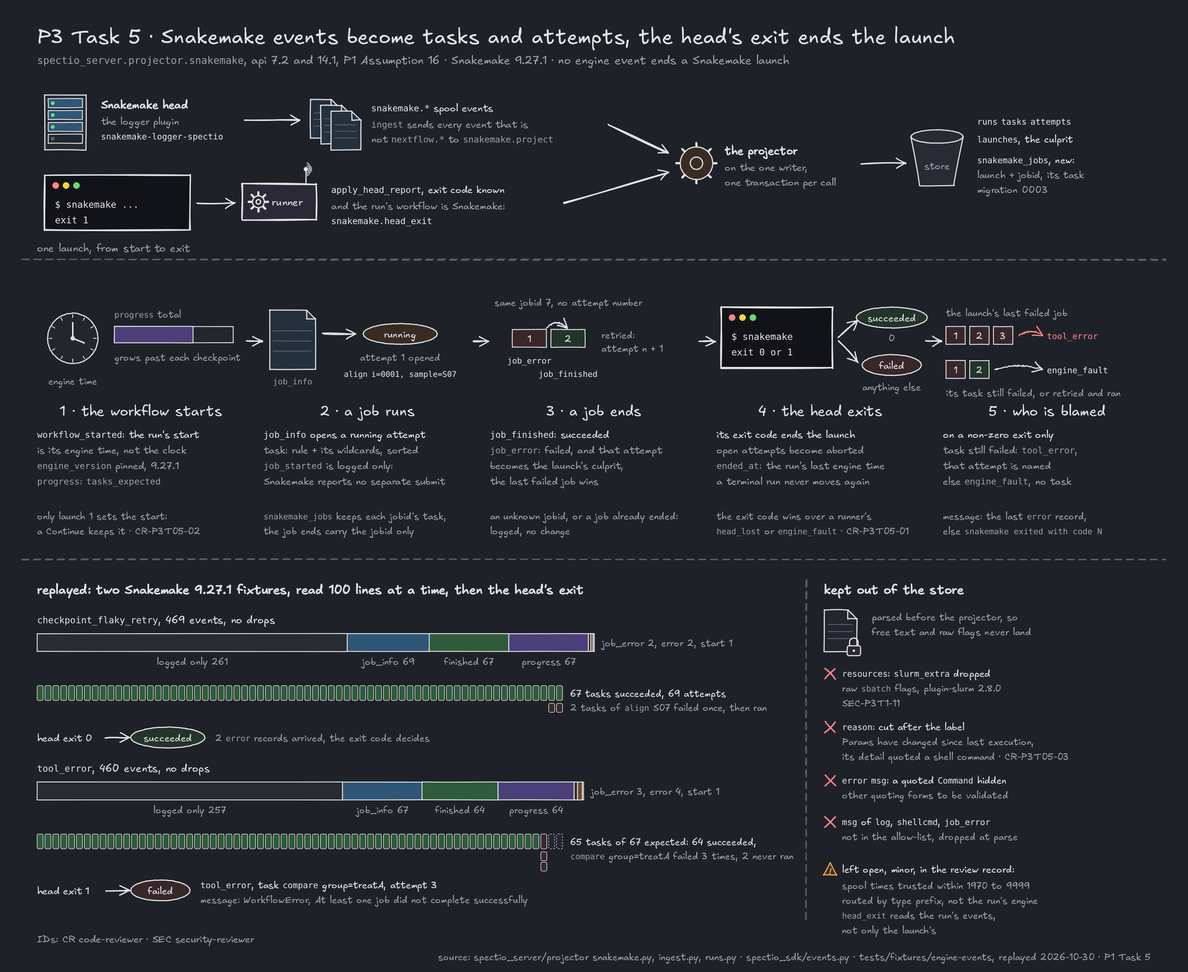
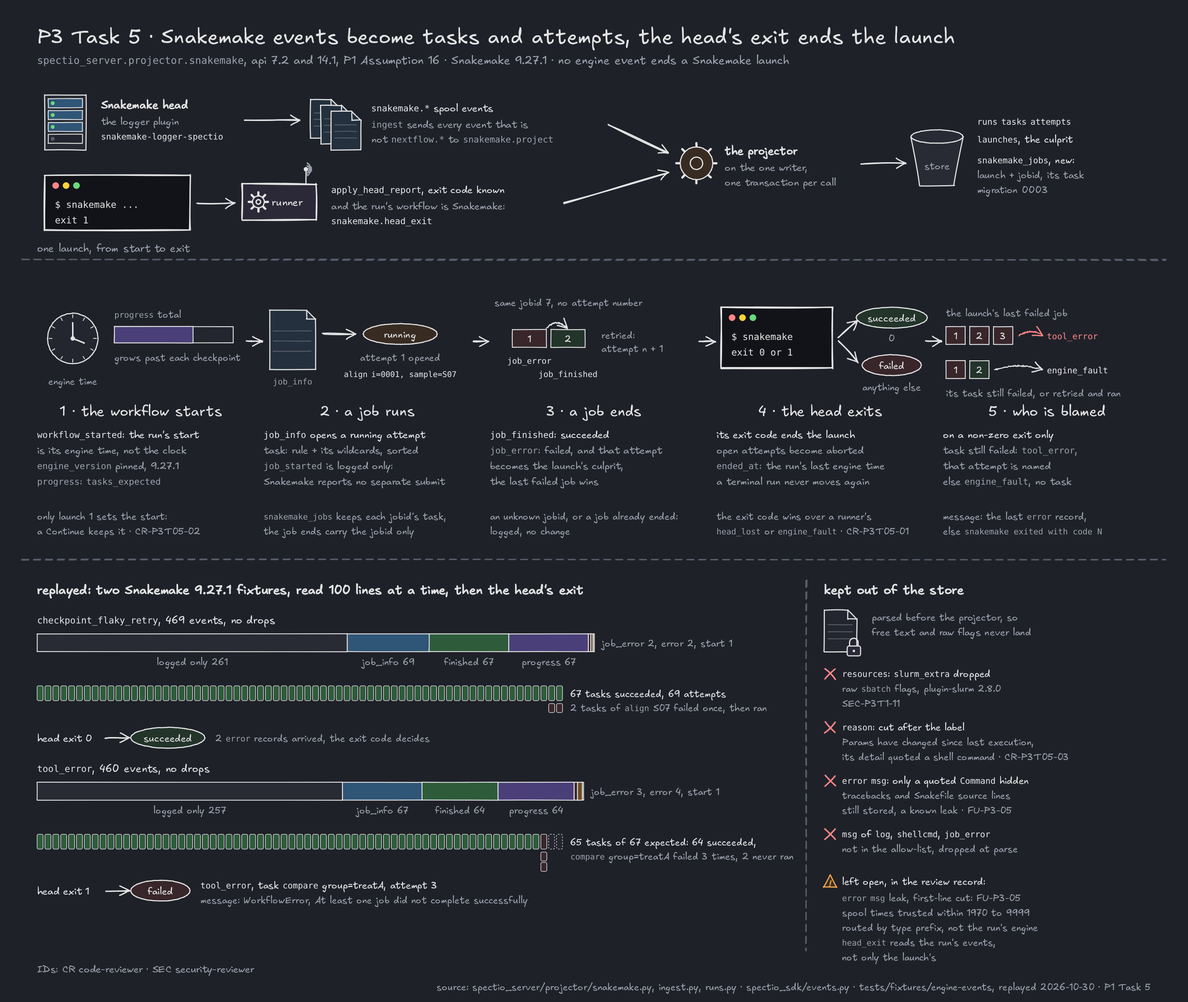
docs(P3-t05): rule 3 is option (a); error msg leak FU-P3-05 in the figure; cite pinned plugins
- P3-M1 and the review record: CR-P3T05-02 (r1) follows inbox #81
  rule 3, option (a); the gap stays open (option (c) was not chosen).
- Figure: the snakemake.error msg item now states the known leak
  (tracebacks and Snakefile source lines are stored, FU-P3-05), FU-P3-05
  joins the left-open list, the footer path is fixed; PNG/SVG pairs
  regenerated and the alt text updated.
- api 14.1: slurm-jobstep 0.6.1 and kubernetes 0.5.1 resource reads
  cited by file:line at their tags, read 2026-10-30.

Claude-Session: https://claude.ai/code/session_01MF8RxQVAqsifw4qf3jWPxK

diff --git a/tools/diagrams/p3_t05_snakemake.py b/tools/diagrams/p3_t05_snakemake.py
@@ -45,8 +45,10 @@ Every fact comes from branch autopilot/P3-t05 at 0f9fcf9 (BASE 85bc086):
   class tool_error, attempt_n 3, message "WorkflowError: At least one job did not complete
   successfully."
 - Fixed during review and named in the figure: CR-P3T05-01, -02, -03 (majors) and SEC-P3T1-11,
-  from docs/reviews/code/P3-t05.md. The minors left open are listed without IDs, since the IDs
-  are reused across rounds in the review rounds.
+  from docs/reviews/code/P3-t05.md. The items left open are listed without finding IDs, since
+  the IDs are reused across rounds in the review rounds; the snakemake.error msg leak (tracebacks
+  and Snakefile source lines reach runs.failure.message, api 14.1) is named by its follow-up,
+  FU-P3-05.
 """
 
 from __future__ import annotations
@@ -55,7 +57,7 @@ import math
 
 from sketch import Sketch, Theme, main_for
 
-W, H = 1600, 1310
+W, H = 1600, 1350
 COL = (50, 355, 660, 965, 1270)  # five columns, 280 wide, 25 apart
 CW = 280
 ROW = 410  # the pictograms of the steps
@@ -324,7 +326,8 @@ def build(theme: Theme) -> Sketch:
          "SEC-P3T1-11"),
         ("`reason`: cut after the label", "Params have changed since last execution,",
          "its detail quoted a shell command · CR-P3T05-03"),
-        ("`error` `msg`: a quoted `Command` hidden", "other quoting forms to be validated", ""),
+        ("`error` `msg`: only a quoted `Command` hidden", "tracebacks and Snakefile source lines",
+         "still stored, a known leak · FU-P3-05"),
         ("`msg` of `log`, `shellcmd`, `job_error`", "not in the allow-list, dropped at parse", ""),
     )
     iy = LOW + 112
@@ -338,14 +341,15 @@ def build(theme: Theme) -> Sketch:
 
     iy += 8
     s.warning(px0 + 8, iy - 4, size=9)
-    s.text(px0 + 24, iy, "left open, minor, in the review record:", size=13, anchor="start")
-    note(s, px0 + 24, iy + 22, ("spool times trusted within 1970 to 9999",
+    s.text(px0 + 24, iy, "left open, in the review record:", size=13, anchor="start")
+    note(s, px0 + 24, iy + 22, ("`error` `msg` leak, first-line cut: FU-P3-05",
+                                "spool times trusted within 1970 to 9999",
                                 "routed by type prefix, not the run's engine",
                                 "`head_exit` reads the run's events,",
                                 "not only the launch's"))
 
     s.prefix_key(50, H - 40, ("CR", "SEC"))
-    s.text(W - 50, H - 16, "source: spectio_server/projector snakemake.py, ingest.py, runs.py · spectio_sdk/events.py · "
+    s.text(W - 50, H - 16, "source: spectio_server/projector/snakemake.py, ingest.py, runs.py · spectio_sdk/events.py · "
            "tests/fixtures/engine-events, replayed 2026-10-30 · P1 Task 5", size=12.5, anchor="end",
            colour=t.dim)
     return s

diff --git a/docs/progress/W5/P3-M1.md b/docs/progress/W5/P3-M1.md
@@ -9,8 +9,8 @@ review: null
 
 !!! info "Running since 2026-10-29 · milestone M1 of step P3, Tasks 1–7 of [P1](../../plans/P1-walking-skeleton.md) · Task 1 merged (workspace and the spool event contract, [PR #73](https://github.com/spectio-org/spectio/pull/73)) · Task 2 merged (the SQLite store, [PR #75](https://github.com/spectio-org/spectio/pull/75)) · Task 3 merged (the spool reader, [PR #77](https://github.com/spectio-org/spectio/pull/77)) · Task 4 merged (the projector, [PR #79](https://github.com/spectio-org/spectio/pull/79)) · Task 5 done on `autopilot/P3-t05` (the Snakemake mapping), its PR into `autopilot/integration` opening with this page · their `review-code`: approve after 3 rounds (Task 1), 4 (Task 2), 3 (Task 3), 5 (Task 4) and 4 (Task 5) · Tasks 6–7 to do"
 
-![P3 Task 5, the Snakemake mapping: Snakemake events become tasks and attempts, and the head's exit ends the launch. The Snakemake head, with the logger plugin snakemake-logger-spectio, writes snakemake.* spool events; ingest sends every event that is not nextflow.* to snakemake.project. The runner sees the head exit, for example exit 1, and calls apply_head_report; when the exit code is known and the run's workflow is Snakemake, snakemake.head_exit runs. Both reach the projector on the one writer, one transaction per call, which writes runs, tasks, attempts, launches with the culprit, and the new snakemake_jobs table, launch plus jobid to its task, migration 0003. Five numbered steps. 1, the workflow starts: workflow_started gives the run's start from the engine time, not the clock, and pins engine_version 9.27.1; progress total gives tasks_expected and grows past each checkpoint; only launch 1 sets the start, a Continue keeps it, CR-P3T05-02. 2, a job runs: job_info opens a running attempt, attempt 1, on the task rule plus its sorted wildcards, for example align i=0001, sample=S07; job_started is logged only, Snakemake reports no separate submit; snakemake_jobs keeps each jobid's task, since the job ends carry the jobid only. 3, a job ends: job_finished gives succeeded, job_error failed, and that attempt becomes the launch's culprit, the last failed job wins; a retried job comes back with the same jobid 7 and no attempt number, and gets attempt n + 1; an unknown jobid or a job already ended is logged, no change. 4, the head exits: its exit code ends the launch; open attempts become aborted; ended_at is the run's last engine time; exit 0 gives succeeded, anything else failed; a terminal run never moves again; the exit code wins over a runner's head_lost or engine_fault, CR-P3T05-01. 5, who is blamed, on a non-zero exit only: when the culprit's task still failed, tool_error, and that attempt is named; when it was retried and ran, engine_fault, no task; the message is the last error record, else snakemake exited with code N. Below, two Snakemake 9.27.1 fixtures replayed, 100 lines at a time, then the head's exit, to scale. checkpoint_flaky_retry, 469 events, no drops: 261 logged only, 69 job_info, 67 finished, 67 progress, 2 job_error, 2 error, 1 start; 67 tasks succeeded with 69 attempts, 2 tasks of align S07 failed once then ran; head exit 0 gives succeeded although 2 error records arrived. tool_error, 460 events, no drops: 257 logged only, 67 job_info, 64 finished, 64 progress, 3 job_error, 4 error, 1 start; 65 tasks of 67 expected, 64 succeeded, compare group=treatA failed 3 times, 2 never ran; head exit 1 gives failed, tool_error on compare group=treatA attempt 3, message WorkflowError, At least one job did not complete successfully. Beside it, kept out of the store, parsed before the projector: slurm_extra dropped from resources, raw sbatch flags in plugin-slurm 2.8.0, SEC-P3T1-11; reason cut after the label Params have changed since last execution, whose detail quoted a shell command, CR-P3T05-03; in an error msg a quoted Command is hidden, other forms to be validated; the msg of log, shellcmd and job_error is not in the allow-list. Left open, minor: spool times trusted within 1970 to 9999, events routed by type prefix rather than the run's engine, head_exit reads the run's events, not only the launch's](../../assets/diagrams/p3-t05-snakemake_light.png#only-light)
-![P3 Task 5, the Snakemake mapping: Snakemake events become tasks and attempts, and the head's exit ends the launch. The Snakemake head, with the logger plugin snakemake-logger-spectio, writes snakemake.* spool events; ingest sends every event that is not nextflow.* to snakemake.project. The runner sees the head exit, for example exit 1, and calls apply_head_report; when the exit code is known and the run's workflow is Snakemake, snakemake.head_exit runs. Both reach the projector on the one writer, one transaction per call, which writes runs, tasks, attempts, launches with the culprit, and the new snakemake_jobs table, launch plus jobid to its task, migration 0003. Five numbered steps. 1, the workflow starts: workflow_started gives the run's start from the engine time, not the clock, and pins engine_version 9.27.1; progress total gives tasks_expected and grows past each checkpoint; only launch 1 sets the start, a Continue keeps it, CR-P3T05-02. 2, a job runs: job_info opens a running attempt, attempt 1, on the task rule plus its sorted wildcards, for example align i=0001, sample=S07; job_started is logged only, Snakemake reports no separate submit; snakemake_jobs keeps each jobid's task, since the job ends carry the jobid only. 3, a job ends: job_finished gives succeeded, job_error failed, and that attempt becomes the launch's culprit, the last failed job wins; a retried job comes back with the same jobid 7 and no attempt number, and gets attempt n + 1; an unknown jobid or a job already ended is logged, no change. 4, the head exits: its exit code ends the launch; open attempts become aborted; ended_at is the run's last engine time; exit 0 gives succeeded, anything else failed; a terminal run never moves again; the exit code wins over a runner's head_lost or engine_fault, CR-P3T05-01. 5, who is blamed, on a non-zero exit only: when the culprit's task still failed, tool_error, and that attempt is named; when it was retried and ran, engine_fault, no task; the message is the last error record, else snakemake exited with code N. Below, two Snakemake 9.27.1 fixtures replayed, 100 lines at a time, then the head's exit, to scale. checkpoint_flaky_retry, 469 events, no drops: 261 logged only, 69 job_info, 67 finished, 67 progress, 2 job_error, 2 error, 1 start; 67 tasks succeeded with 69 attempts, 2 tasks of align S07 failed once then ran; head exit 0 gives succeeded although 2 error records arrived. tool_error, 460 events, no drops: 257 logged only, 67 job_info, 64 finished, 64 progress, 3 job_error, 4 error, 1 start; 65 tasks of 67 expected, 64 succeeded, compare group=treatA failed 3 times, 2 never ran; head exit 1 gives failed, tool_error on compare group=treatA attempt 3, message WorkflowError, At least one job did not complete successfully. Beside it, kept out of the store, parsed before the projector: slurm_extra dropped from resources, raw sbatch flags in plugin-slurm 2.8.0, SEC-P3T1-11; reason cut after the label Params have changed since last execution, whose detail quoted a shell command, CR-P3T05-03; in an error msg a quoted Command is hidden, other forms to be validated; the msg of log, shellcmd and job_error is not in the allow-list. Left open, minor: spool times trusted within 1970 to 9999, events routed by type prefix rather than the run's engine, head_exit reads the run's events, not only the launch's](../../assets/diagrams/p3-t05-snakemake_dark.png#only-dark)
+![P3 Task 5, the Snakemake mapping: Snakemake events become tasks and attempts, and the head's exit ends the launch. The Snakemake head, with the logger plugin snakemake-logger-spectio, writes snakemake.* spool events; ingest sends every event that is not nextflow.* to snakemake.project. The runner sees the head exit, for example exit 1, and calls apply_head_report; when the exit code is known and the run's workflow is Snakemake, snakemake.head_exit runs. Both reach the projector on the one writer, one transaction per call, which writes runs, tasks, attempts, launches with the culprit, and the new snakemake_jobs table, launch plus jobid to its task, migration 0003. Five numbered steps. 1, the workflow starts: workflow_started gives the run's start from the engine time, not the clock, and pins engine_version 9.27.1; progress total gives tasks_expected and grows past each checkpoint; only launch 1 sets the start, a Continue keeps it, CR-P3T05-02. 2, a job runs: job_info opens a running attempt, attempt 1, on the task rule plus its sorted wildcards, for example align i=0001, sample=S07; job_started is logged only, Snakemake reports no separate submit; snakemake_jobs keeps each jobid's task, since the job ends carry the jobid only. 3, a job ends: job_finished gives succeeded, job_error failed, and that attempt becomes the launch's culprit, the last failed job wins; a retried job comes back with the same jobid 7 and no attempt number, and gets attempt n + 1; an unknown jobid or a job already ended is logged, no change. 4, the head exits: its exit code ends the launch; open attempts become aborted; ended_at is the run's last engine time; exit 0 gives succeeded, anything else failed; a terminal run never moves again; the exit code wins over a runner's head_lost or engine_fault, CR-P3T05-01. 5, who is blamed, on a non-zero exit only: when the culprit's task still failed, tool_error, and that attempt is named; when it was retried and ran, engine_fault, no task; the message is the last error record, else snakemake exited with code N. Below, two Snakemake 9.27.1 fixtures replayed, 100 lines at a time, then the head's exit, to scale. checkpoint_flaky_retry, 469 events, no drops: 261 logged only, 69 job_info, 67 finished, 67 progress, 2 job_error, 2 error, 1 start; 67 tasks succeeded with 69 attempts, 2 tasks of align S07 failed once then ran; head exit 0 gives succeeded although 2 error records arrived. tool_error, 460 events, no drops: 257 logged only, 67 job_info, 64 finished, 64 progress, 3 job_error, 4 error, 1 start; 65 tasks of 67 expected, 64 succeeded, compare group=treatA failed 3 times, 2 never ran; head exit 1 gives failed, tool_error on compare group=treatA attempt 3, message WorkflowError, At least one job did not complete successfully. Beside it, kept out of the store, parsed before the projector: slurm_extra dropped from resources, raw sbatch flags in plugin-slurm 2.8.0, SEC-P3T1-11; reason cut after the label Params have changed since last execution, whose detail quoted a shell command, CR-P3T05-03; in an error msg only a quoted Command is hidden: tracebacks and Snakefile source lines are still stored, a known leak, FU-P3-05; the msg of log, shellcmd and job_error is not in the allow-list. Left open: the error msg leak, a first-line cut, FU-P3-05; spool times trusted within 1970 to 9999, events routed by type prefix rather than the run's engine, head_exit reads the run's events, not only the launch's](../../assets/diagrams/p3-t05-snakemake_light.png#only-light)
+![P3 Task 5, the Snakemake mapping: Snakemake events become tasks and attempts, and the head's exit ends the launch. The Snakemake head, with the logger plugin snakemake-logger-spectio, writes snakemake.* spool events; ingest sends every event that is not nextflow.* to snakemake.project. The runner sees the head exit, for example exit 1, and calls apply_head_report; when the exit code is known and the run's workflow is Snakemake, snakemake.head_exit runs. Both reach the projector on the one writer, one transaction per call, which writes runs, tasks, attempts, launches with the culprit, and the new snakemake_jobs table, launch plus jobid to its task, migration 0003. Five numbered steps. 1, the workflow starts: workflow_started gives the run's start from the engine time, not the clock, and pins engine_version 9.27.1; progress total gives tasks_expected and grows past each checkpoint; only launch 1 sets the start, a Continue keeps it, CR-P3T05-02. 2, a job runs: job_info opens a running attempt, attempt 1, on the task rule plus its sorted wildcards, for example align i=0001, sample=S07; job_started is logged only, Snakemake reports no separate submit; snakemake_jobs keeps each jobid's task, since the job ends carry the jobid only. 3, a job ends: job_finished gives succeeded, job_error failed, and that attempt becomes the launch's culprit, the last failed job wins; a retried job comes back with the same jobid 7 and no attempt number, and gets attempt n + 1; an unknown jobid or a job already ended is logged, no change. 4, the head exits: its exit code ends the launch; open attempts become aborted; ended_at is the run's last engine time; exit 0 gives succeeded, anything else failed; a terminal run never moves again; the exit code wins over a runner's head_lost or engine_fault, CR-P3T05-01. 5, who is blamed, on a non-zero exit only: when the culprit's task still failed, tool_error, and that attempt is named; when it was retried and ran, engine_fault, no task; the message is the last error record, else snakemake exited with code N. Below, two Snakemake 9.27.1 fixtures replayed, 100 lines at a time, then the head's exit, to scale. checkpoint_flaky_retry, 469 events, no drops: 261 logged only, 69 job_info, 67 finished, 67 progress, 2 job_error, 2 error, 1 start; 67 tasks succeeded with 69 attempts, 2 tasks of align S07 failed once then ran; head exit 0 gives succeeded although 2 error records arrived. tool_error, 460 events, no drops: 257 logged only, 67 job_info, 64 finished, 64 progress, 3 job_error, 4 error, 1 start; 65 tasks of 67 expected, 64 succeeded, compare group=treatA failed 3 times, 2 never ran; head exit 1 gives failed, tool_error on compare group=treatA attempt 3, message WorkflowError, At least one job did not complete successfully. Beside it, kept out of the store, parsed before the projector: slurm_extra dropped from resources, raw sbatch flags in plugin-slurm 2.8.0, SEC-P3T1-11; reason cut after the label Params have changed since last execution, whose detail quoted a shell command, CR-P3T05-03; in an error msg only a quoted Command is hidden: tracebacks and Snakefile source lines are still stored, a known leak, FU-P3-05; the msg of log, shellcmd and job_error is not in the allow-list. Left open: the error msg leak, a first-line cut, FU-P3-05; spool times trusted within 1970 to 9999, events routed by type prefix rather than the run's engine, head_exit reads the run's events, not only the launch's](../../assets/diagrams/p3-t05-snakemake_dark.png#only-dark)
 
 ![P3 Task 4, the projector: spool events become runs, tasks and attempts. Two calls reach the one writer thread, each in one BEGIN IMMEDIATE transaction: ingest(conn, launch_id, batch), with a SpoolBatch from read_spool of Task 3 (events, cursor, drops), and apply_head_report(conn, launch_id, report), what the runner saw of the head, from Tasks 9 to 11. They write events, runs, launches, tasks, attempts, spool_cursors and spool_drops. Inside ingest, for each event of the batch in order: 1, skip and re-check: an event ID already logged is skipped, the data is checked again against the allow-list, and a batch of another run or launch writes nothing; a failure counts invalid. 2, one savepoint per event: logged with the next seq; the first engine event starts the run; a projector error rolls back that event only, logged with its traceback and counted projection_error, and the cursor moves on; a storage fault rolls back the whole batch and the cursor stays. 3, task and attempt: a task is process plus tag, or process plus task name when untagged; an attempt is task, launch and attempt number; attempt states never move back; a task shows its last attempt; onTaskComplete reads trace.status COMPLETED, FAILED or ABORTED; a failure with TERMINATE is tool_error. 4, the launch ends on onFlowComplete: open attempts become aborted, a terminal run never moves again, a second end is only logged; runs.failure is tool_error with the launch's culprit, or engine_fault when it has none. 5, in the same transaction the cursor, the drop counts and task_counts are stored, and projected_seq equals last_seq. Below, the Nextflow 26.10.4 toolerr fixture replayed: 293 events, 295 log rows with seq 1 to 295 and no gap, including 2 run state changes, 65 tasks, of which 63 succeeded, 1 failed (COMPARE) and 1 aborted (FINAL_REPORT); the run goes queued, running, failed, with runs.failure tool_error on COMPARE treatA_vs_ctrl attempt 1. Beside it, who is blamed when two attempts fail with TERMINATE in one batch: each keeps its tool_error class, and launches.culprit_attempt_id, set only while empty, blames the first in seq order (CR-P3T04-08). And the head reports: running starts a queued run; a launch or head failure fails the run, with open attempts failed for head_lost or engine_fault; a head that ends while cancelling gives cancelled; after the engine's end, no state change](../../assets/diagrams/p3-t04-projector_light.png#only-light)
 ![P3 Task 4, the projector: spool events become runs, tasks and attempts. Two calls reach the one writer thread, each in one BEGIN IMMEDIATE transaction: ingest(conn, launch_id, batch), with a SpoolBatch from read_spool of Task 3 (events, cursor, drops), and apply_head_report(conn, launch_id, report), what the runner saw of the head, from Tasks 9 to 11. They write events, runs, launches, tasks, attempts, spool_cursors and spool_drops. Inside ingest, for each event of the batch in order: 1, skip and re-check: an event ID already logged is skipped, the data is checked again against the allow-list, and a batch of another run or launch writes nothing; a failure counts invalid. 2, one savepoint per event: logged with the next seq; the first engine event starts the run; a projector error rolls back that event only, logged with its traceback and counted projection_error, and the cursor moves on; a storage fault rolls back the whole batch and the cursor stays. 3, task and attempt: a task is process plus tag, or process plus task name when untagged; an attempt is task, launch and attempt number; attempt states never move back; a task shows its last attempt; onTaskComplete reads trace.status COMPLETED, FAILED or ABORTED; a failure with TERMINATE is tool_error. 4, the launch ends on onFlowComplete: open attempts become aborted, a terminal run never moves again, a second end is only logged; runs.failure is tool_error with the launch's culprit, or engine_fault when it has none. 5, in the same transaction the cursor, the drop counts and task_counts are stored, and projected_seq equals last_seq. Below, the Nextflow 26.10.4 toolerr fixture replayed: 293 events, 295 log rows with seq 1 to 295 and no gap, including 2 run state changes, 65 tasks, of which 63 succeeded, 1 failed (COMPARE) and 1 aborted (FINAL_REPORT); the run goes queued, running, failed, with runs.failure tool_error on COMPARE treatA_vs_ctrl attempt 1. Beside it, who is blamed when two attempts fail with TERMINATE in one batch: each keeps its tool_error class, and launches.culprit_attempt_id, set only while empty, blames the first in seq order (CR-P3T04-08). And the head reports: running starts a queued run; a launch or head failure fails the run, with open attempts failed for head_lost or engine_fault; a head that ends while cancelling gives cancelled; after the engine's end, no state change](../../assets/diagrams/p3-t04-projector_dark.png#only-dark)
@@ -918,7 +918,7 @@ $ echo $?
 | Id | What | Goes to |
 |---|---|---|
 | SEC-P3T05-02 (r1, r3), SEC-P3T05-01 (r2) | `snakemake.error` `msg` keeps tracebacks and Snakefile source lines; it becomes `runs.failure.message` (the rest of SEC-P3T1-08) | follow-up FU-P3-05: keep only the first line when it is not the hidden `Command` form; P1 Task 7 at the latest ([inbox #81](../../reviews/inbox.md#81-assumed-the-snakemake-mapping-and-four-review-rounds) rule 7) |
-| CR-P3T05-02 (r1) | Under `--keep-going` with retries, a real tool error can be classed `engine_fault` | assumed for 0.0.1, [inbox #81](../../reviews/inbox.md#81-assumed-the-snakemake-mapping-and-four-review-rounds) rule 3, option (c) |
+| CR-P3T05-02 (r1) | Under `--keep-going` with retries, a real tool error can be classed `engine_fault` | assumed for 0.0.1, [inbox #81](../../reviews/inbox.md#81-assumed-the-snakemake-mapping-and-four-review-rounds) rule 3, option (a); the gap stays open |
 | SEC-P3T05-01 (r1), SEC-P3T05-02 (r2), SEC-P3T05-04 (r3) | Engine times bounded only to 1970–9999; a head-report end mixes clocks; a late `progress` writes `tasks_expected` after the end | follow-up; [api §7](../../specs/api-and-data-model.md#7-database-schema) `runs` says so |
 | CR-P3T05-05 (r2), SEC-P3T05-03 (r2), CR-P3T05-06 (r3) | `head_exit` and `_failure` read the run's events, not the launch's | before a run can have a second launch (Continue) |
 | SEC-P3T05-05 (r3) | Events go to a projector by type prefix, not by the run's engine | follow-up FU-P3-06 |

diff --git a/docs/specs/api-and-data-model.md b/docs/specs/api-and-data-model.md
@@ -669,7 +669,7 @@ Values are checked as strictly in `data` as in the envelope: integers are JSON i
 | `snakemake.progress` | `done`, `total` |
 | `snakemake.error` | `exception`, `msg`: the error text, stored with the quoted command hidden (T2 saw `Command '<the job's shell command>' returned non-zero exit status 1.`, `export` values included; it becomes `Command «hidden» returned non-zero exit status 1.`; a job killed by a signal keeps `died with <…>`). The text is cut at 4096 characters first. When a quote is left that the pattern did not match, it fails closed in two steps: only the first line is kept, and if that line still holds `Command '`, it is cut there and `Command «hidden»` is appended. Other exception texts are not hidden, a known gap open as follow-up FU-P3-05 ([inbox #81](../reviews/inbox.md#81-assumed-the-snakemake-mapping-and-four-review-rounds) rule 7): Snakemake 9.27.1 logs the exception text, a `SyntaxError`'s Snakefile source line and, for any other exception, the full traceback in this record ([`exceptions.py:20-26`](https://github.com/snakemake/snakemake/blob/v9.27.1/src/snakemake/exceptions.py#L20-L26), [`:153`](https://github.com/snakemake/snakemake/blob/v9.27.1/src/snakemake/exceptions.py#L153), [`:172-186`](https://github.com/snakemake/snakemake/blob/v9.27.1/src/snakemake/exceptions.py#L172-L186), tag `v9.27.1`, read 2026-10-30), so they reach `runs.failure.message`, up to 4096 characters. The three T2 Snakemake fixtures hold only the `Command '…'` form, and a test checks that no parsed record of them holds their shell text (SEC-P3T1-08, [P3 Task 5 record](../reviews/code/P3-t05.md)). The free text of `snakemake.log` and `snakemake.job_error` (`msg`) is not in their allow-lists, so it is never stored. The run's failure message comes from it |
 
-Never stored, whoever sends them and at any depth, including inside free-form values (`resources`, `rulegraph`); `wildcards` names are kept as the rule declares them: `script`, `env`, `homeDir`, `commandLine`, `configText`, Snakemake's `cmd` and `shellcmd`, and a rule's message text, `rule_msg` (P1 Assumption 3) *(assumed — pending Thomas, inbox #55 (a); his 2026-10-29 dashboard answer asks why not send them as Tower does, and is not a decision yet)*. Deny-listing is by exact key name only: `resources` values are stored as the rule declares them, except `slurm_extra`, which is dropped from `snakemake.job_info` `resources`: snakemake-executor-plugin-slurm 2.8.0 appends it raw to the `sbatch` call ([`submit_string.py:206-207`](https://github.com/snakemake/snakemake-executor-plugin-slurm/blob/v2.8.0/snakemake_executor_plugin_slurm/submit_string.py#L206-L207), tag `v2.8.0`, commit `91f51af`, read 2026-10-30), so it may carry what `--export` passes; it is never stored (SEC-P3T1-11, [P3 Task 5 record](../reviews/code/P3-t05.md)). This drop is for that key at the top of `resources` only, not at any depth like the list above (CR-P3T05-07 (r3), [inbox #81](../reviews/inbox.md#81-assumed-the-snakemake-mapping-and-four-review-rounds)). The other executor plugins pinned in `dev/snakemake.lock.txt` (`slurm-jobstep` 0.6.1, `kubernetes` 0.5.1) read typed resources only, as `security-reviewer` read them in P3 Task 5's review; whether later plugins pass raw flags under other `*_extra` key names is **[to be validated]**, and no test would catch a new one. Other Snakemake events (group jobs, for example) are not in the list, so they are dropped as unknown; whether 0.0.1's runs emit any is **[to be validated]**.
+Never stored, whoever sends them and at any depth, including inside free-form values (`resources`, `rulegraph`); `wildcards` names are kept as the rule declares them: `script`, `env`, `homeDir`, `commandLine`, `configText`, Snakemake's `cmd` and `shellcmd`, and a rule's message text, `rule_msg` (P1 Assumption 3) *(assumed — pending Thomas, inbox #55 (a); his 2026-10-29 dashboard answer asks why not send them as Tower does, and is not a decision yet)*. Deny-listing is by exact key name only: `resources` values are stored as the rule declares them, except `slurm_extra`, which is dropped from `snakemake.job_info` `resources`: snakemake-executor-plugin-slurm 2.8.0 appends it raw to the `sbatch` call ([`submit_string.py:206-207`](https://github.com/snakemake/snakemake-executor-plugin-slurm/blob/v2.8.0/snakemake_executor_plugin_slurm/submit_string.py#L206-L207), tag `v2.8.0`, commit `91f51af`, read 2026-10-30), so it may carry what `--export` passes; it is never stored (SEC-P3T1-11, [P3 Task 5 record](../reviews/code/P3-t05.md)). This drop is for that key at the top of `resources` only, not at any depth like the list above (CR-P3T05-07 (r3), [inbox #81](../reviews/inbox.md#81-assumed-the-snakemake-mapping-and-four-review-rounds)). The other executor plugins pinned in `dev/snakemake.lock.txt` (`slurm-jobstep` 0.6.1, `kubernetes` 0.5.1) read named resource keys only and pass no raw flags: `slurm-jobstep` reads `mpi`, `cpus_per_task`, `cpus_per_gpu`, a GPU count and a node count ([`__init__.py:144`](https://github.com/snakemake/snakemake-executor-plugin-slurm-jobstep/blob/v0.6.1/snakemake_executor_plugin_slurm_jobstep/__init__.py#L144), [`:275-346`](https://github.com/snakemake/snakemake-executor-plugin-slurm-jobstep/blob/v0.6.1/snakemake_executor_plugin_slurm_jobstep/__init__.py#L275-L346), tag `v0.6.1`, commit `c09349d`); `kubernetes` reads `machine_type`, `gpu`, `gpu_manufacturer`, `scale`, `_cores`, `mem_mb` and `disk_mb` ([`__init__.py:167-218`](https://github.com/snakemake/snakemake-executor-plugin-kubernetes/blob/v0.5.1/snakemake_executor_plugin_kubernetes/__init__.py#L167-L218), [`:318-371`](https://github.com/snakemake/snakemake-executor-plugin-kubernetes/blob/v0.5.1/snakemake_executor_plugin_kubernetes/__init__.py#L318-L371), tag `v0.5.1`, commit `d5f720e`); both read 2026-10-30, after `security-reviewer`'s reading in P3 Task 5's review; whether later plugins pass raw flags under other `*_extra` key names is **[to be validated]**, and no test would catch a new one. Other Snakemake events (group jobs, for example) are not in the list, so they are dropped as unknown; whether 0.0.1's runs emit any is **[to be validated]**.
 
 **Dropped and counted, never executed.** Each line is untrusted input (dev-env §15.3 req. 6). The reader validates the envelope, then the type's allow-list. A line or a file that fails a check is dropped and counted by reason, and the next one is read. The counters are stored with the reader's cursor (P1 Assumption 11). Nothing in an event is executed or evaluated; paths in events are untrusted and are used only as names confined under a run root ([dev-env §15.3](dev-environment-and-testing.md#153-001-on-a-cluster-architecture-and-safety-without-accounts) req. 13). *Reader rules below written 2026-10-30, from the code and review of P1 Task 3 (CR-P3T3-05, SEC-P3T3-07); the reader is `spectio.runner.spool.read_spool`, its tests `packages/spectio/tests/test_spool_reader.py`.*
 

diff --git a/docs/reviews/code/P3-t05.md b/docs/reviews/code/P3-t05.md
@@ -43,7 +43,7 @@ The finding texts are summarised from the round summaries and the fix commits' m
 | Id | Severity | Finding | Status |
 |---|---|---|---|
 | CR-P3T05-01 (r1) | major | The `HeadReport` contract told the runner to set `failure` whenever a head ends with no terminal engine event, which is every Snakemake head; `apply_head_report` checked `failure` first, so a Snakemake exit 0 became `failed` / `engine_fault` and a tool error lost its class and culprit. | fixed in `ff79703`: a known exit code wins over `head_lost` / `engine_fault`; `launch_error` still fails (`test_exit_code_wins_over_a_head_failure`, `test_exit_code_with_a_head_failure_keeps_the_tool_error`, `test_launch_error_with_an_exit_code_still_fails`); the contract is in the `HeadReport` docstring and [api §7.1](../../specs/api-and-data-model.md#71-run-and-gate-state-machines) |
-| CR-P3T05-02 (r1) | minor | The culprit is the launch's last failed job, so under `--keep-going` with retries a real tool error is classed `engine_fault` (job A fails for good, then job B fails and its retry succeeds). | **open**, assumed: [inbox #81](../inbox.md#81-assumed-the-snakemake-mapping-and-four-review-rounds) rule 3, option (c) |
+| CR-P3T05-02 (r1) | minor | The culprit is the launch's last failed job, so under `--keep-going` with retries a real tool error is classed `engine_fault` (job A fails for good, then job B fails and its retry succeeds). | **open**, assumed: [inbox #81](../inbox.md#81-assumed-the-snakemake-mapping-and-four-review-rounds) rule 3, option (a); the gap stays open |
 | CR-P3T05-03 (r1) | minor | `slurm_extra` is dropped by a second, single-key mechanism next to `DENIED_KEYS`, so api §14.1's never-stored list and the code's one deny-list differ. | kept by design: [api §14.1](../../specs/api-and-data-model.md#141-driven-runs-001) now names the drop as scoped to `snakemake.job_info` `resources`; see CR-P3T05-07 (r3) |
 | SEC-P3T05-01 (r1) | minor | Engine time sets `runs.started_at` and `ended_at` with no bound against the ingest clock, and `set_started` overwrote `started_at` on every begin event, even after the run ended. | **partly fixed** in `5b59f37` (only launch 1 sets `started_at`). Open: the 1970–9999 bound only; inbox #81 rule 5 |
 | SEC-P3T05-02 (r1) | minor | SEC-P3T1-08 closed more widely than the evidence allows: `format_error()` embeds `str(ex)` of any exception, and a `SyntaxError`'s source line. | **open**: inbox #81 rule 7, follow-up FU-P3-05 |
